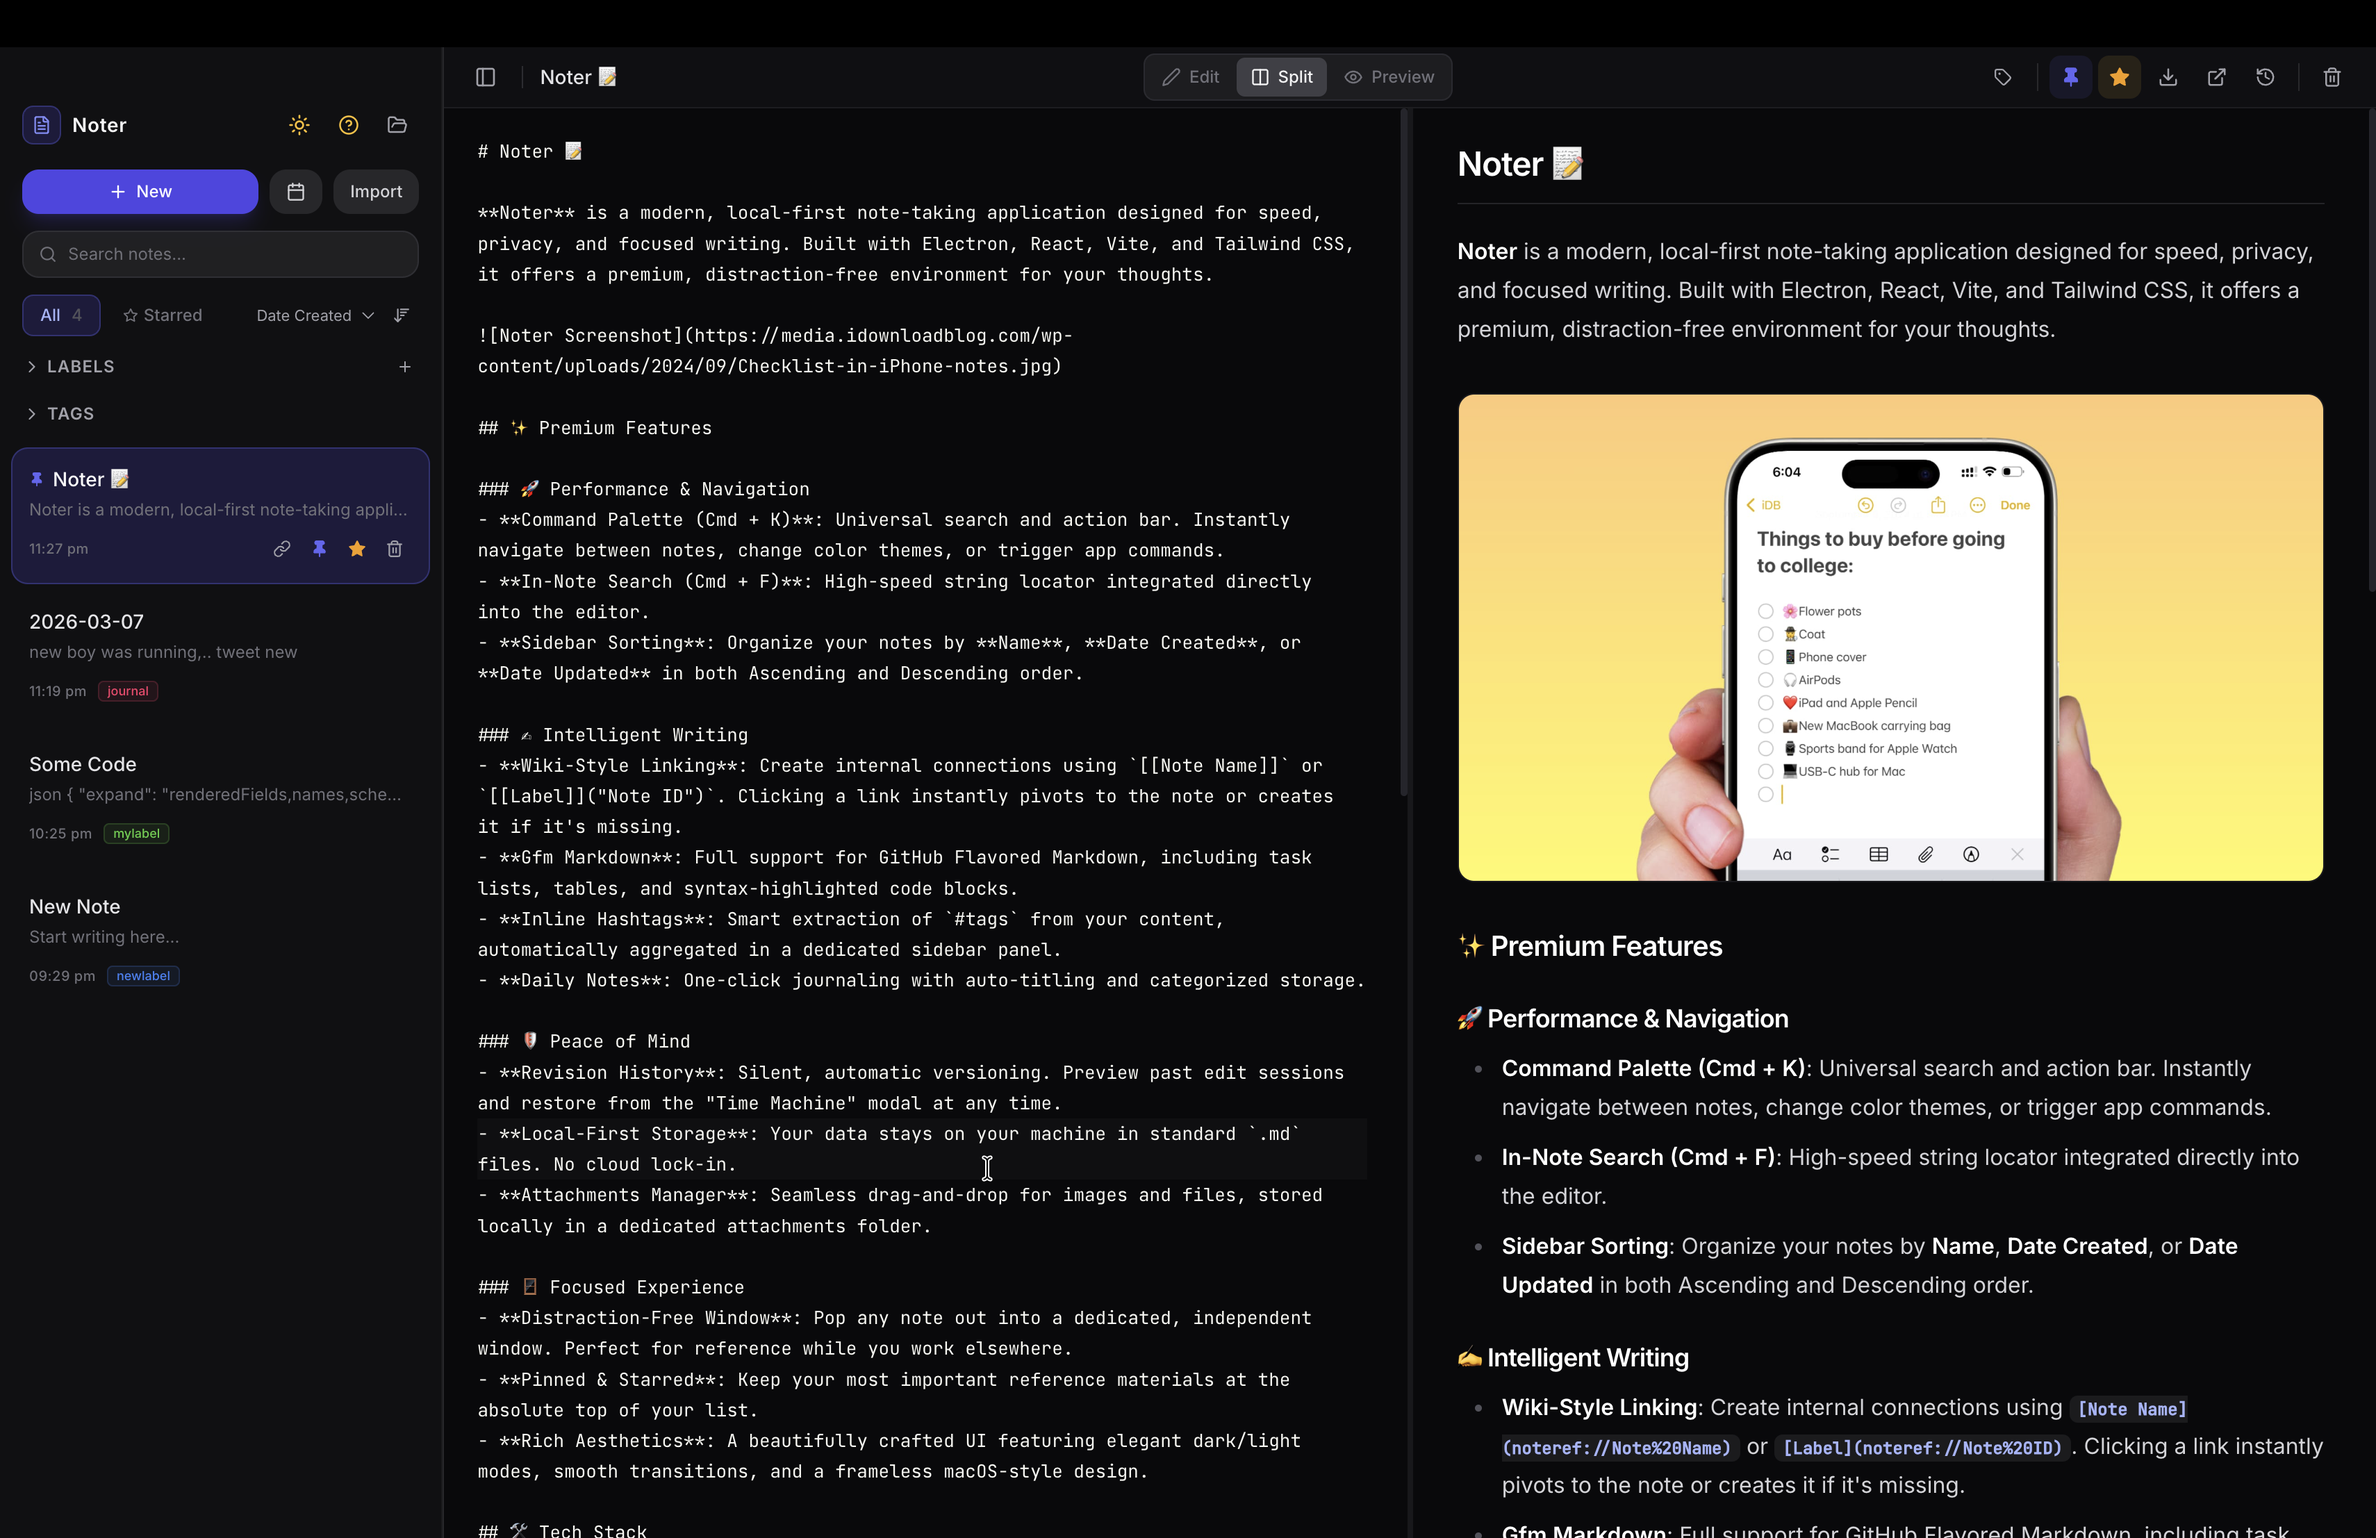
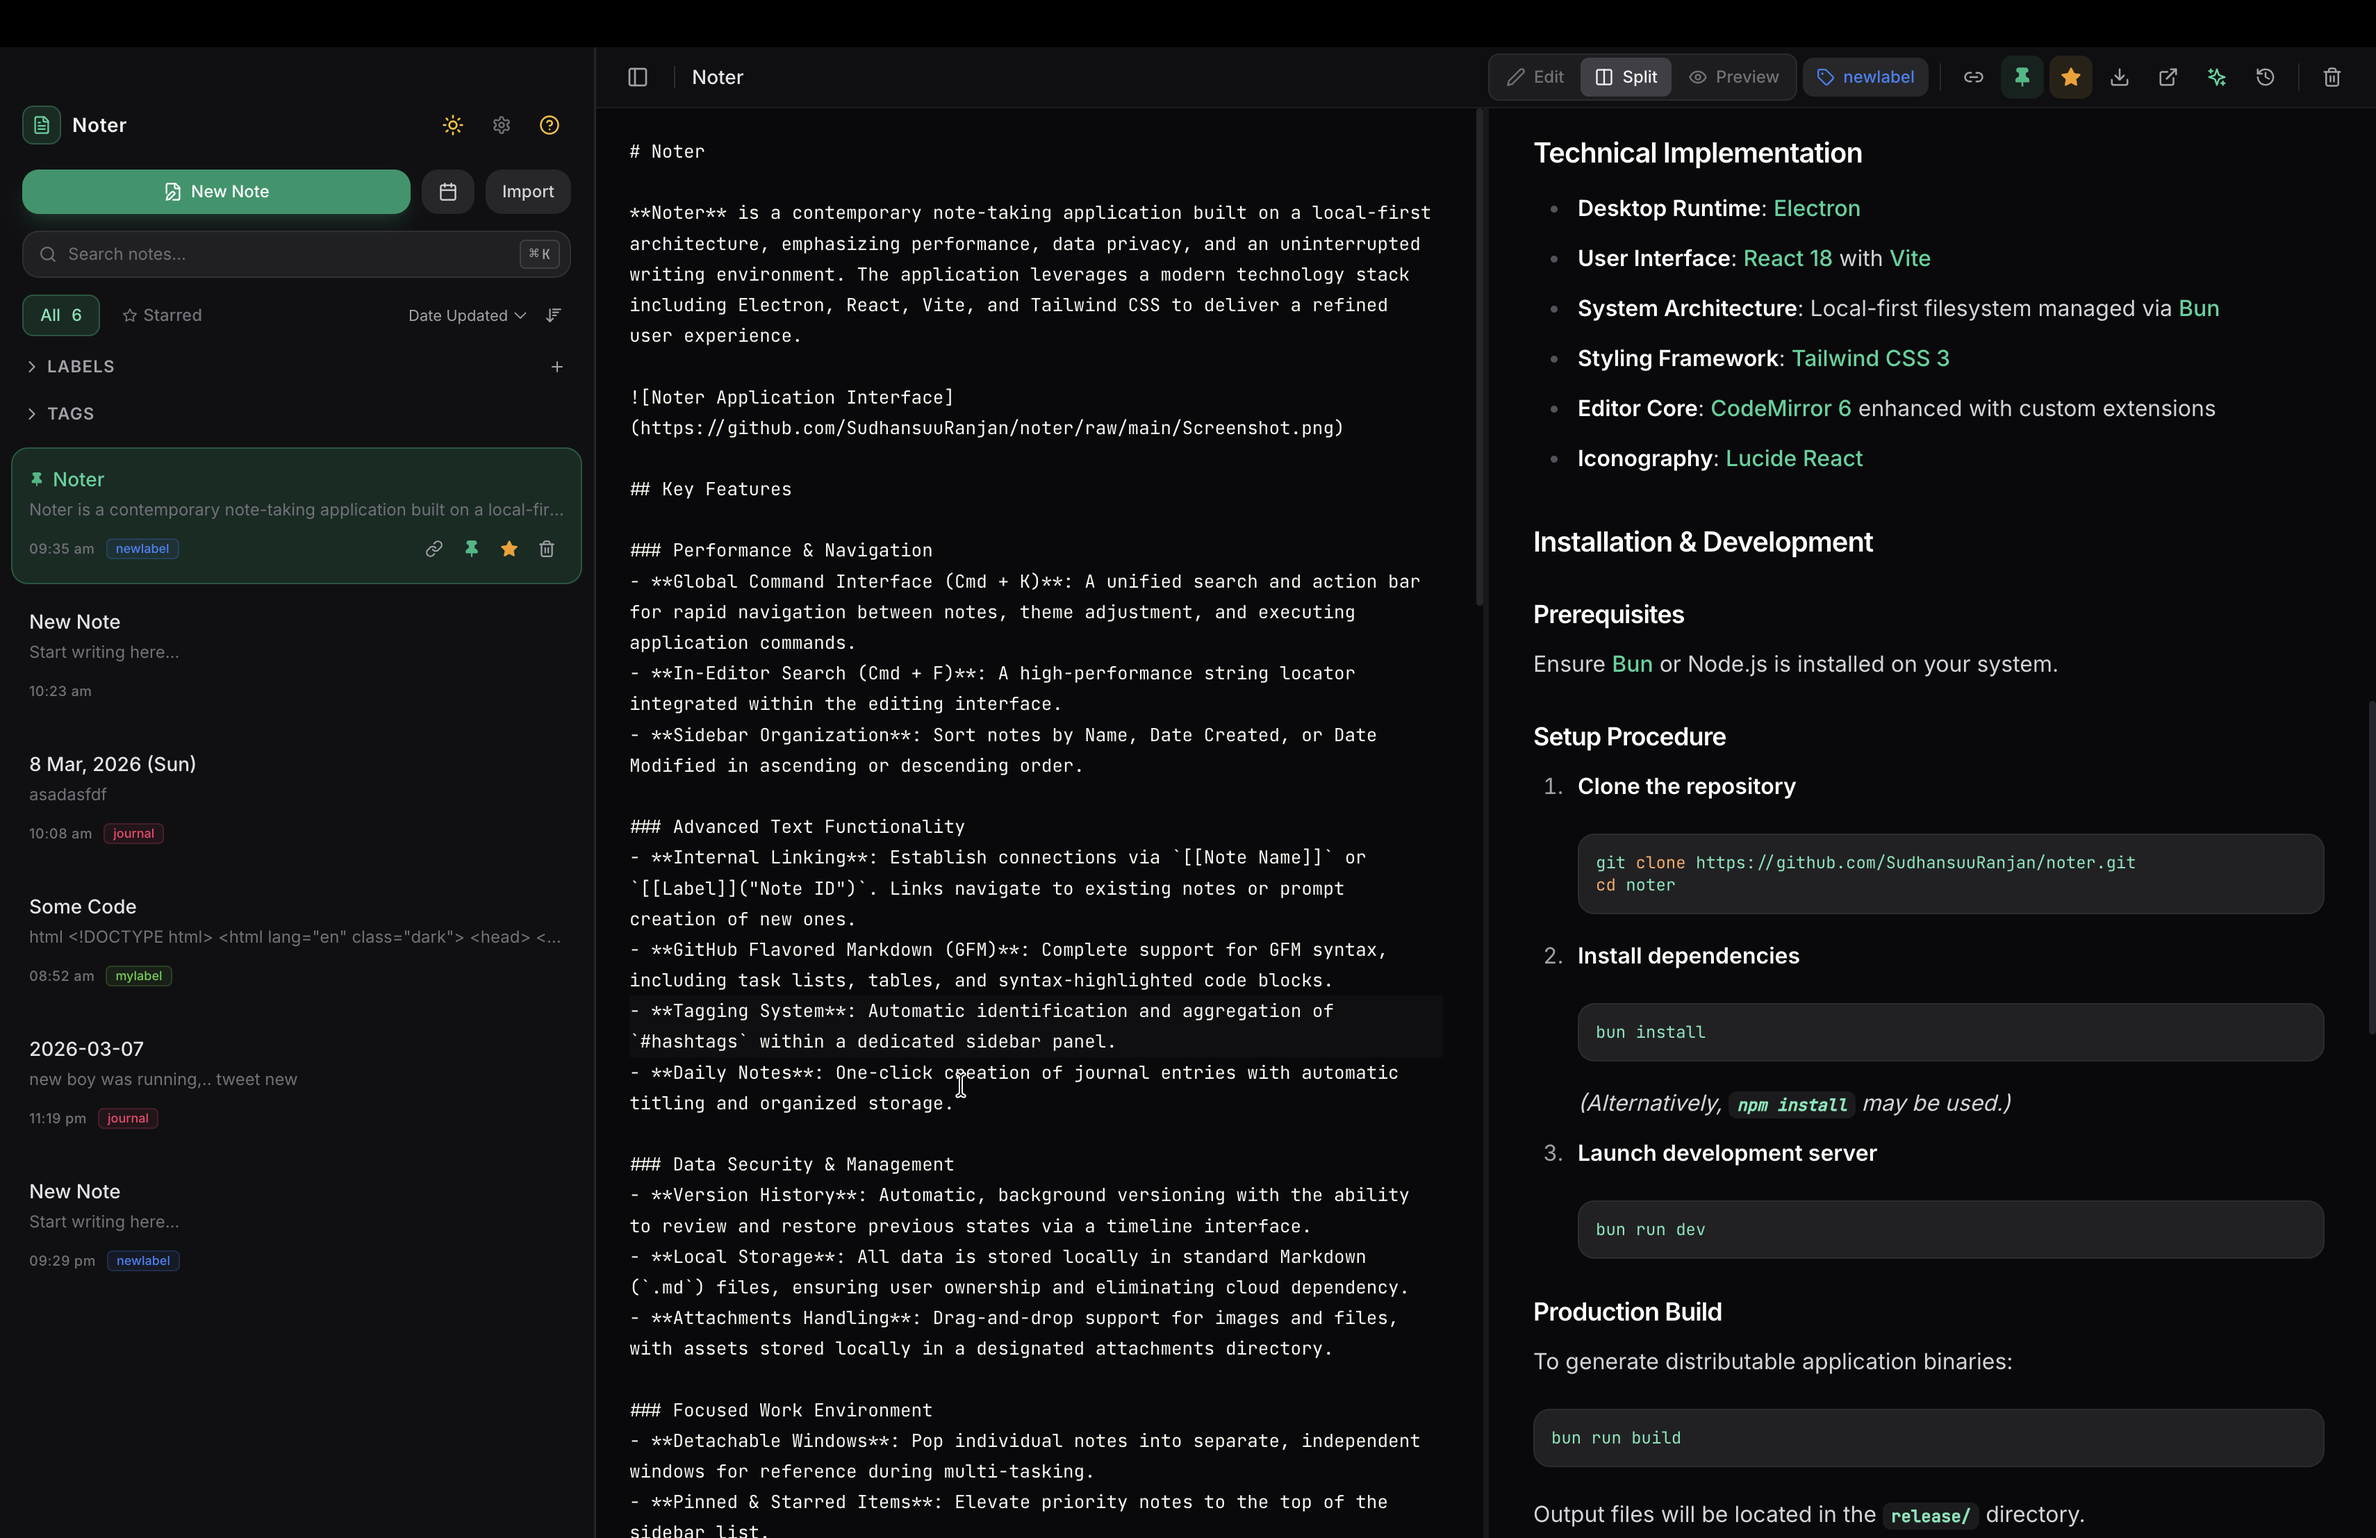
feat: Add AI assistant, advanced markdown, PDF export, and UI themes, updating help content and README to reflect new features.

diff --git a/src/components/HelpModal.tsx b/src/components/HelpModal.tsx
@@ -11,34 +11,49 @@ interface HelpModalProps {
 }
 
 const HELP_CONTENT = `
-# Noter Cheat Sheet ✨
+# Noter Power Guide ✨
 
-Welcome to Noter! This is a lightning-fast, local-first markdown editor tailored for developers. Here are some of the power features you can use to upgrade your daily workflow:
+Welcome to Noter! This is a lightning-fast, local-first markdown editor. Here are the latest features to boost your productivity:
 
-## ⚡ Command Palette (Cmd/Ctrl + K)
-Pressing \`Cmd+K\` instantly brings up the Command Palette. Type to fuzzy-search across your entire vault. You can instantly open notes, navigate features, or toggle your view modes without touching your mouse!
+## ⚡ Quick Shortcuts
+- **Cmd/Ctrl + K**: Open Command Palette (Search & Actions)
+- **Cmd/Ctrl + N**: Create a new note instantly
+- **Cmd/Ctrl + S**: Forced save (Auto-save is also active)
+- **Esc**: Close modals or exit full-screen views
 
-## 🔗 Internal Note Linking
-Tired of flat lists? Build a personal wiki. Typing \`[[Note Title]]\` anywhere in your document will create a clickable hyperlink.
-- If the note exists, clicking it instantly navigates you to it.
-- If the note doesn't exist, clicking it will automatically create it for you!
+## 🤖 AI Assistant (Writing & Editing)
+Transform your notes with integrated AI. Click the **Sparkles** icon in the toolbar or use the Command Palette to:
+- **Rephrase**: Make your writing more professional.
+- **Summarize**: Turn long notes into concise bullet points.
+- **Fix Grammar**: Polish your spelling and syntax instantly.
+- **Continue Writing**: Let the AI expand on your existing ideas.
+- **Custom Prompts**: Ask the AI anything directly!
 
-## #⃣ Hashtag Collections
-When you type tags like \`#ideas\` or \`#todos\` directly into the text editor, Noter actively scrapes them and builds an intelligent global index in your Sidebar. Click a tag in the sidebar to filter your entire workspace down to those active contexts.
+## 🔗 Intelligent Note Linking
+Connect your thoughts with Wiki-Style links using \`[[Note Title]]\`. 
+- Clicking a link opens a **Smart Router** modal.
+- Choose to open in the **Current Window** or a **New Dedicated Window** for side-by-side reference.
+- If the note doesn't exist, Noter will create it for you!
+
+## 🎨 Theme & Personalization
+Make Noter your own. Navigate to **AI Settings** (via Gear icon or Cmd+K) to:
+- Toggle between **Light** and **Dark** modes.
+- Choose your **Accent Color** (Indigo, Cyan, or Pink) which affects the entire UI.
+
+## � Professional PDF Export
+Need a hard copy? Click the **PDF** icon in the preview toolbar. Noter generates a clean, paginated PDF with:
+- Dedicated print-ready typography.
+- Automatic light-mode conversion for legibility.
+- Hidden UI elements for a pure document finish.
+
+## 📊 Advanced Markdown support
+- **Mermaid Diagrams**: Render charts and flows using \`\`\`mermaid\`\`\` blocks.
+- **LaTeX Math**: Render formulas using \`$\` for inline and \`$$\` for blocks.
+- **Copy Code**: Hover over any code block to see the fast Copy button.
+- **Smart Tables**: Enhanced, beautiful table rendering with hover highlights.
 
 ## ⏪ Revisions & Time Machine
-Never lose your work! Every time you successfully edit a document, Noter secretly forks an invisible backup checkpoint. Click the **Clock** icon in the top right to open the **History** modal, where you can view every historical edit you've made to the file and instantly restore it to an older version.
-
-## 🖼 Drag & Drop Attachments
-Working with screenshots? Just drag and drop (or paste) an image directly onto the editor. Noter will securely extract the picture, save it to a local \`attachments\` folder, and securely generate standard Markdown image syntax \`![Alt](noter://attachments/...)\` that renders natively in Split/Watch views!
-
-## 📌 Pins, Stars, and Labels
-- **Pins**: Keep your scratchpads visible. Hit the **Pin** icon to sticky a note to the very top of your sidebar.
-- **Labels**: Build your own folder-like categorization list in the Sidebar. Right-click or use the action icons to assign colors and cleanly group related files. 
-- **Star**: Star your favorites for an easy toggle filter!
-
-## 📅 Daily Standups
-Hit the **Calendar** icon in the left sidebar nav. Noter will instantly synthesize today's date into a new, auto-labeled Journal entry—perfect for quick standup notes or end-of-day dumping!
+Never lose your work! Every time you edit, Noter creates a silent checkpoint. Click the **Clock** icon to view history and restore past versions.
 `
 
 export function HelpModal({ isOpen, onClose }: HelpModalProps) {

diff --git a/README.md b/README.md
@@ -6,26 +6,27 @@
 
 ## ✨ Premium Features
 
-### 🚀 Performance & Navigation
-- **Command Palette (Cmd + K)**: Universal search and action bar. Instantly navigate between notes, change color themes, or trigger app commands.
+### 🤖 Intelligence & Writing
+- **AI Writer & Editor**: Integrated writing assistant for rephrasing, summarizing, grammar correction, and content expansion. Powered by context-aware LLM flows.
+- **Advanced Markdown**: Native support for **Mermaid Diagrams** (charts, flows), **LaTeX Math** (inline and block formulas), and enhanced **Interactive Tables**.
 - **In-Note Search (Cmd + F)**: High-speed string locator integrated directly into the editor.
-- **Sidebar Sorting**: Organize your notes by **Name**, **Date Created**, or **Date Updated** in both Ascending and Descending order.
+- **Code Copy**: Hover-activated copy buttons on all code blocks with clean AST-based string extraction.
 
-### ✍ Intelligent Writing
-- **Wiki-Style Linking**: Create internal connections using `[[Note Name]]` or `[[Label]]("Note ID")`. Clicking a link instantly pivots to the note or creates it if it's missing.
-- **Gfm Markdown**: Full support for GitHub Flavored Markdown, including task lists, tables, and syntax-highlighted code blocks.
-- **Inline Hashtags**: Smart extraction of `#tags` from your content, automatically aggregated in a dedicated sidebar panel.
-- **Daily Notes**: One-click journaling with auto-titling and categorized storage.
+### 🚀 Navigation & Portability
+- **Command Palette (Cmd + K)**: Universal search and action bar. Instantly navigate between notes, change color themes, or trigger app commands.
+- **Smart Note Links**: Connect thoughts with Wiki-Style \`[[Note Links]]\`. Features a smart router to open links in the current view or a **Dedicated New Window**.
+- **Daily Notes**: One-click journaling with auto-titling (e.g., "12 Mar, 2025 (Mon)").
+- **Professional PDF Export**: One-click native PDF generation with optimized print typography and isolated styling.
 
-### 🛡 Peace of Mind
-- **Revision History**: Silent, automatic versioning. Preview past edit sessions and restore from the "Time Machine" modal at any time.
-- **Local-First Storage**: Your data stays on your machine in standard `.md` files. No cloud lock-in.
-- **Attachments Manager**: Seamless drag-and-drop for images and files, stored locally in a dedicated attachments folder.
+### 🎨 Personalization & UI
+- **Dynamic Accent Themes**: Choose between **Indigo**, **Cyan**, or **Pink** themes that instantly rebind the entire app's color palette.
+- **Glassmorphism & UX**: A beautifully crafted UI featuring elegant dark/light modes, backdrop blurs, and smooth frameless transitions.
+- **Sidebar Organization**: Smart sorting by Name/Date, inline hashtag extraction, and customizable file labels.
 
-### 🪟 Focused Experience
-- **Distraction-Free Window**: Pop any note out into a dedicated, independent window. Perfect for reference while you work elsewhere.
-- **Pinned & Starred**: Keep your most important reference materials at the absolute top of your list.
-- **Rich Aesthetics**: A beautifully crafted UI featuring elegant dark/light modes, smooth transitions, and a frameless macOS-style design.
+### 🛡 Built for Professionals
+- **Revision History**: Silent, automatic versioning. Preview past edit sessions and restore from the "Time Machine" modal.
+- **Local-First**: Standard \`.md\` file storage. Your data never leaves your machine.
+- **Attachments Manager**: Secure local images and file storage with drag-and-drop integration.
 
 ## 🛠 Tech Stack
 
